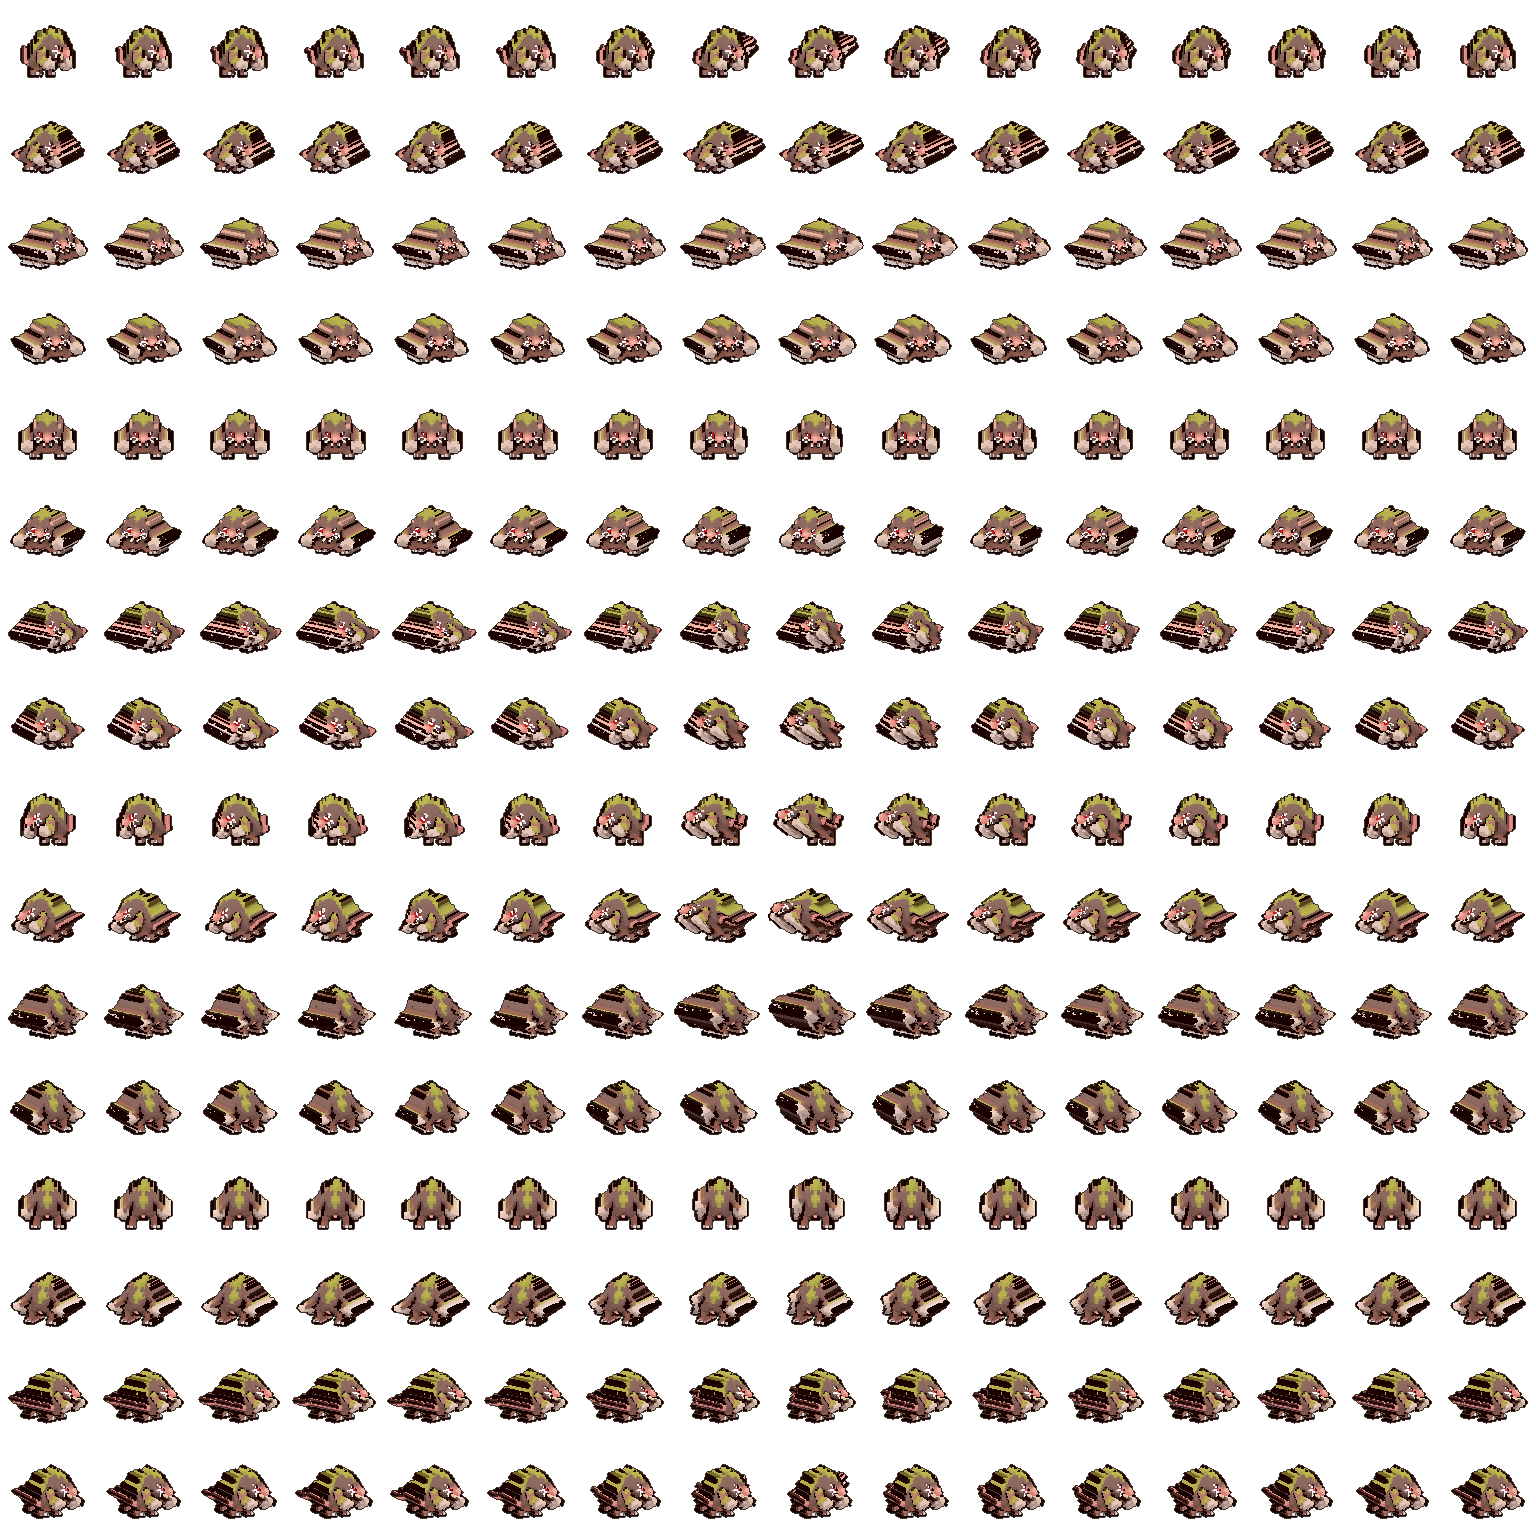
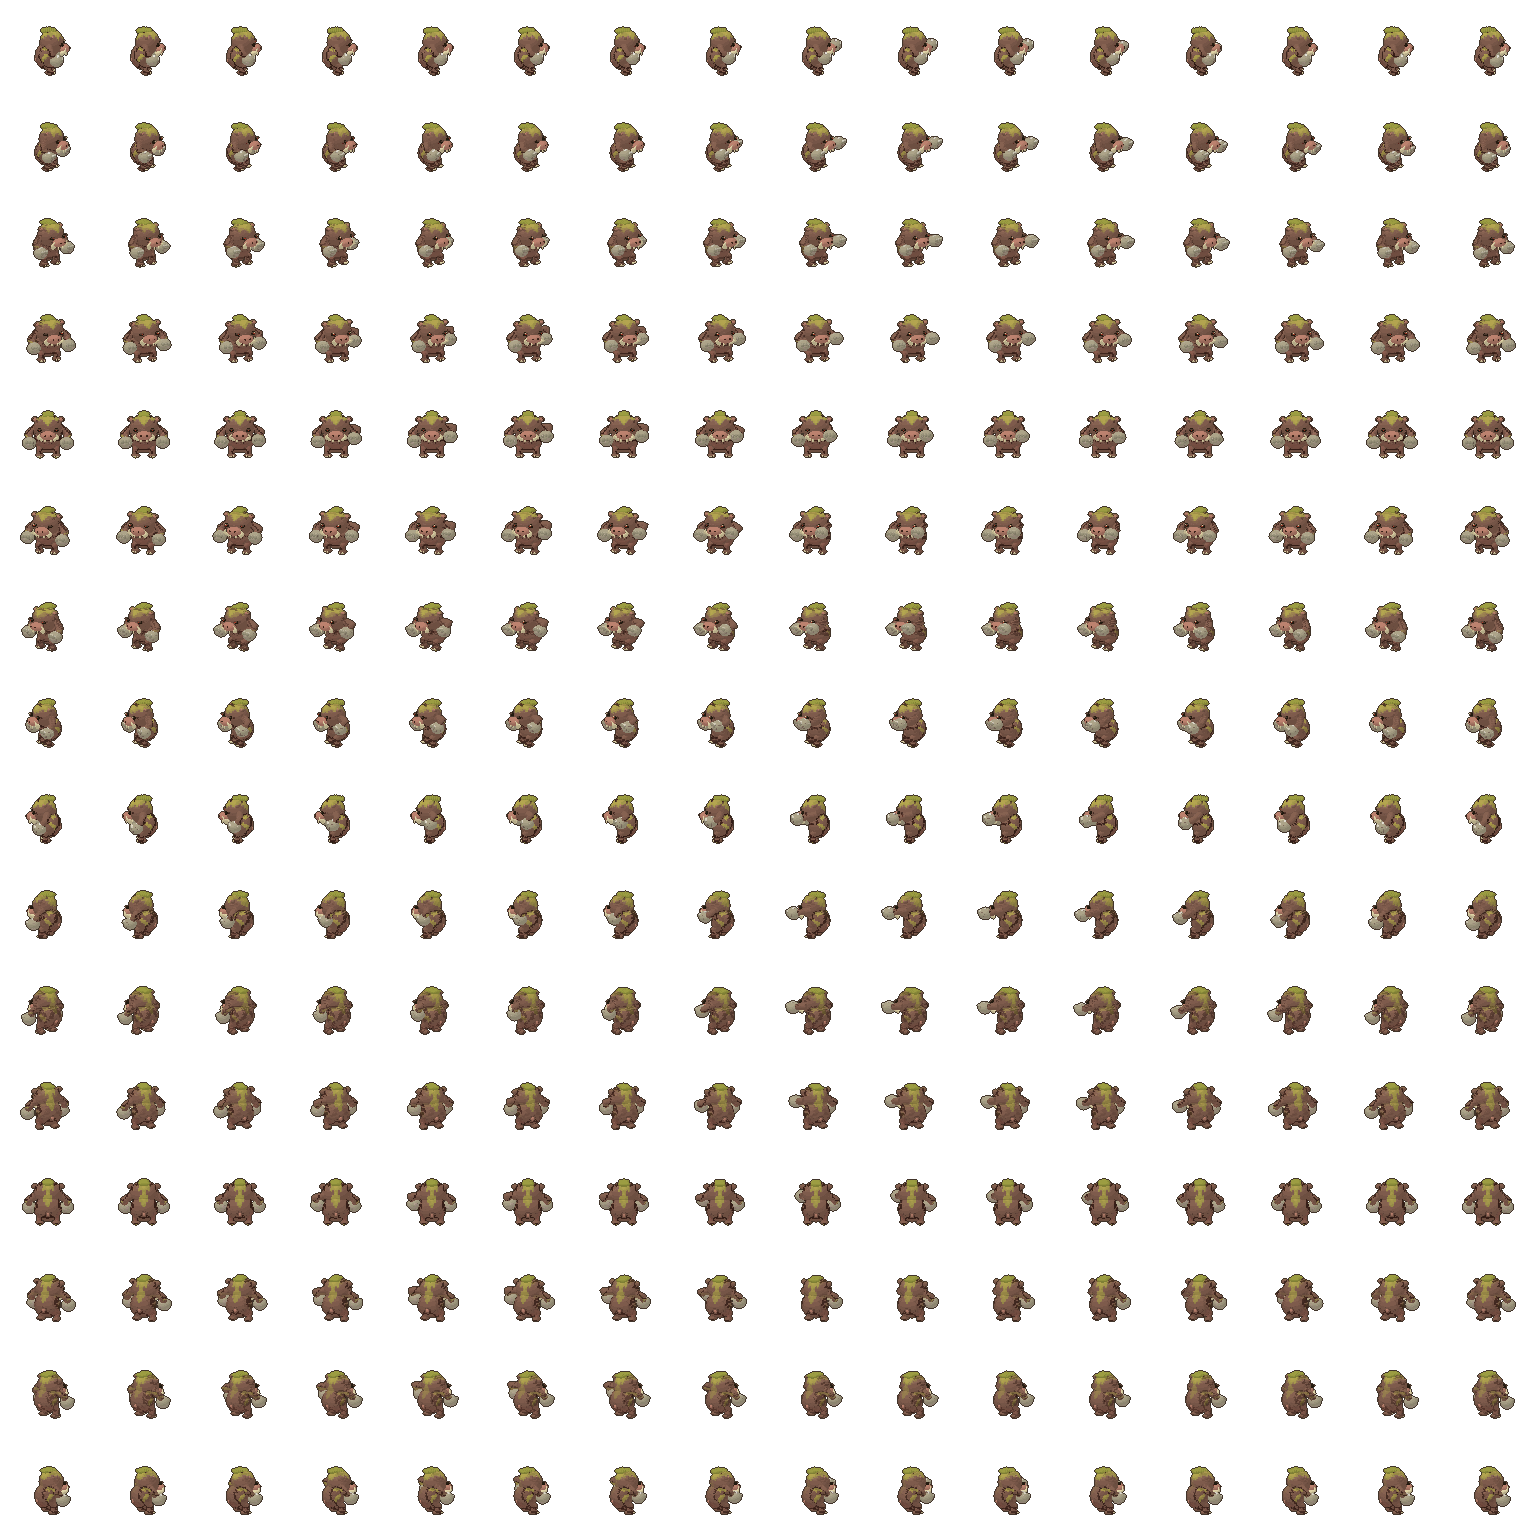
Rebuild young enemy with player-style continuous anatomy and sixteen stable directions

Changed region(s): [[0.0, 0.0, 1.0, 1.0]]

diff --git a/docs/COMPLETE_SPRITE_PLAN.md b/docs/COMPLETE_SPRITE_PLAN.md
@@ -36,4 +36,11 @@ Las poses `equip_walk`, `equip_run` y `equip_crouch_walk` combinan seis etapas d
 
 La recogida usa `pickup` (6 fotogramas por dirección) y `pickup_walk` (6 etapas × 12 fases de caminata), también con armadura. La preparación de espada ocupa el primer 18% del gesto; se conserva el contacto a mitad de secuencia. Hacha y pico usan el agarre zurdo con mano izquierda superior. El relieve y contraste muscular del torso se reducen al 90% del anterior.
 
-El enemigo joven se autoriza a partir de las cuatro vistas originales. `tools/enemy/young_volume.gd` reconstruye un volumen texturizado continuo y deforma su superficie; `tools/enemy/bake_young.gd` exporta 16 direcciones, caminata de 12 poses y dos secuencias de 16 puñetazos para alternar manos. Sus celdas de 96×96 mantienen el mismo detalle de raster que el personaje, evitando el espacio vacío de celdas de 192×192 para un cuerpo de 32 unidades. En juego solo se muestran sprites completos.
+El enemigo joven se autoriza a partir de las cuatro vistas originales. `tools/enemy/young_volume.gd` comparte con el personaje las superficies continuas de cuerpo y extremidades, con cinemática de dos huesos de longitud fija. Las cuatro vistas aportan los tonos y detalles de piel, musgo y piedra; hocico, ojos, orejas, colmillos y puños son volúmenes unidos al cuerpo que se ocultan naturalmente al girar. Sustituye la antigua reconstrucción por vóxeles, que deformaba las diagonales; `tools/enemy/bake_young.gd` exporta 16 direcciones, caminata de 12 poses y dos secuencias de 16 puñetazos para alternar manos. Sus celdas de 96×96 mantienen el mismo detalle de raster que el personaje, evitando el espacio vacío de celdas de 192×192 para un cuerpo de 32 unidades. En juego solo se muestran sprites completos.
+
+La revisión del joven mantiene hocico, ojos, colmillos, orejas y cresta unidos
+al cráneo, y los puños unidos a los antebrazos. La pintura de las cuatro vistas
+se mezcla entre orientaciones vecinas, sin cambiar el volumen al pasar por una
+diagonal. `tests/young_sprite_quality.gd` comprueba las longitudes de los huesos,
+las 16 orientaciones distintas, los márgenes de exportación y la recuperación
+exacta de ambos puñetazos. Las referencias originales permanecen intactas.

diff --git a/docs/RENDER_OPTIMIZATIONS.md b/docs/RENDER_OPTIMIZATIONS.md
@@ -31,3 +31,9 @@ an impact had **zero differing pixels**. The spatial regression test compares
 12,000 queries with the old full silhouette scan, including parent transforms,
 rotations, negative scales, removal and insertion-order ties. Existing
 interaction, ground-cover, combat and render-reuse checks passed.
+
+Repeat the batch measurement with:
+
+```sh
+godot --headless --path . --script tools/benchmark_presentation.gd
+```
